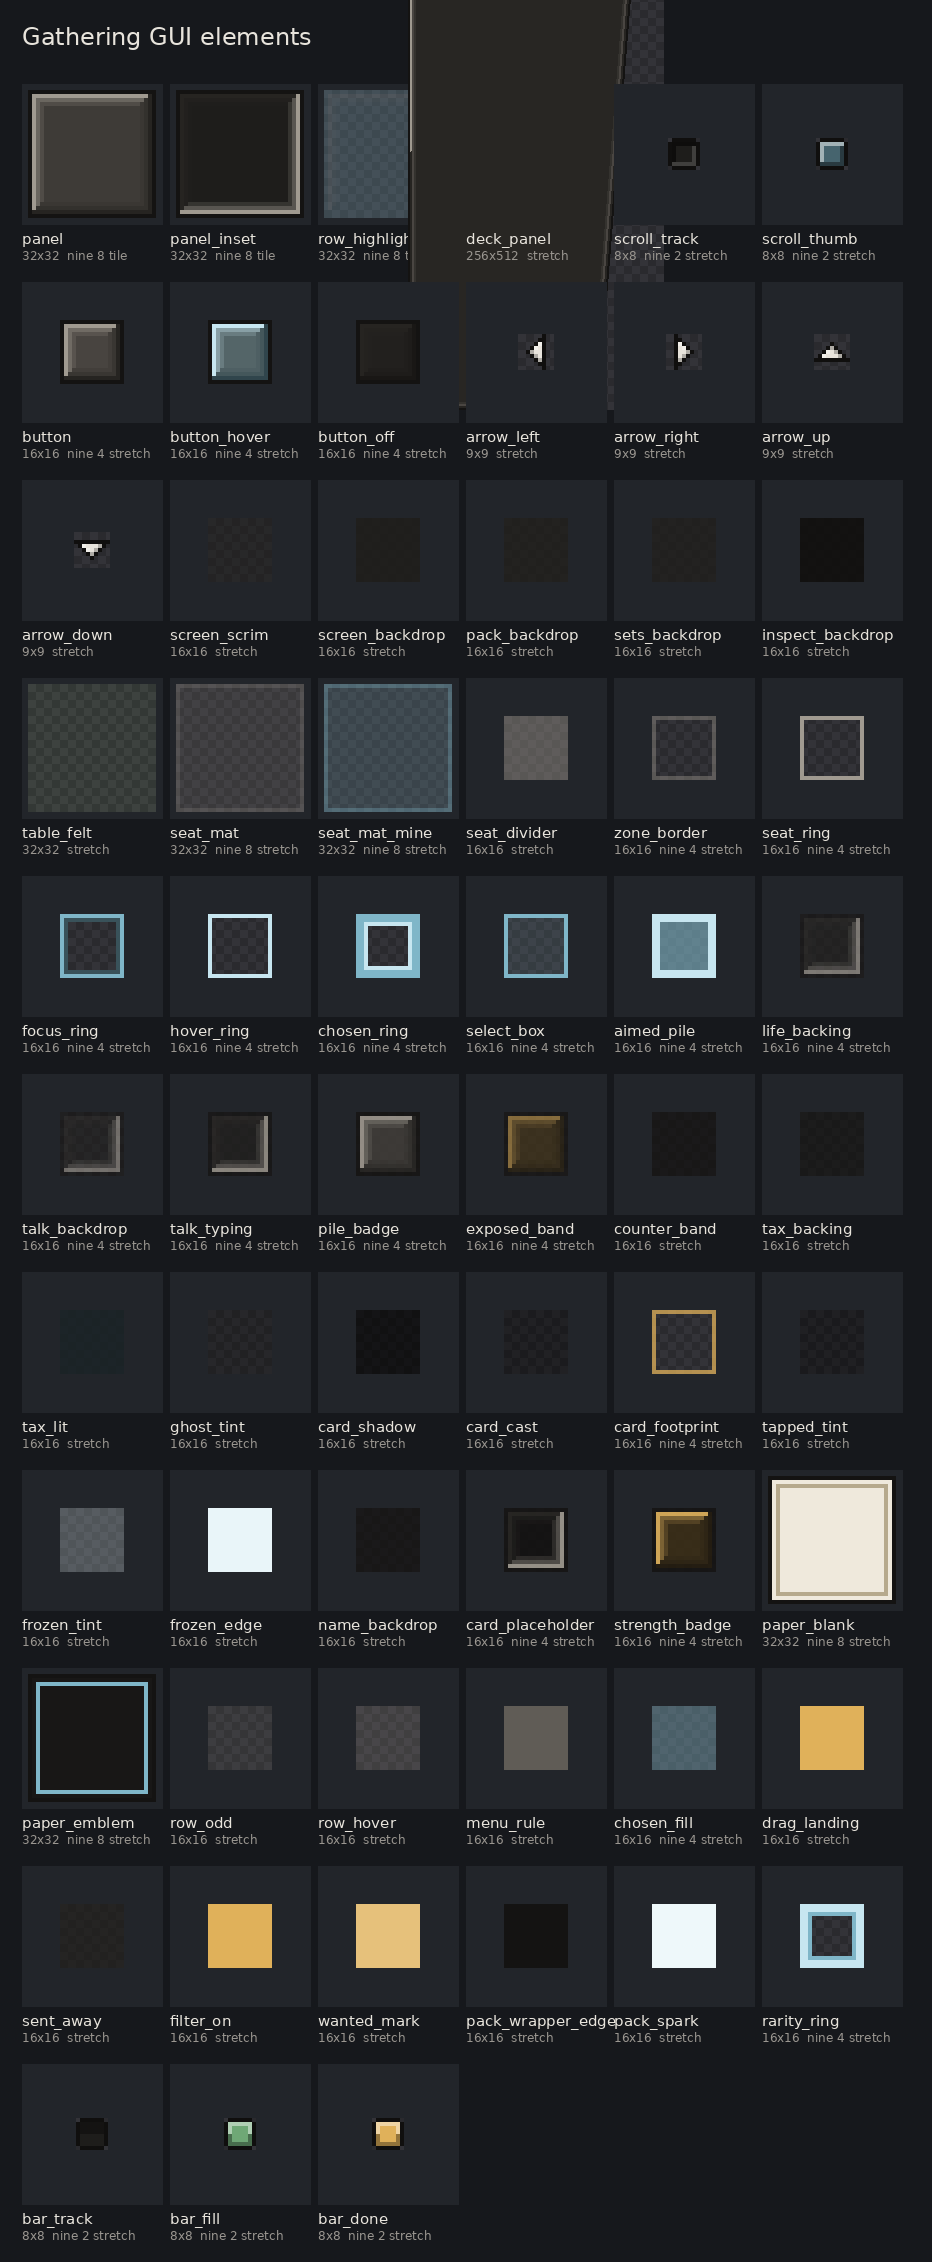
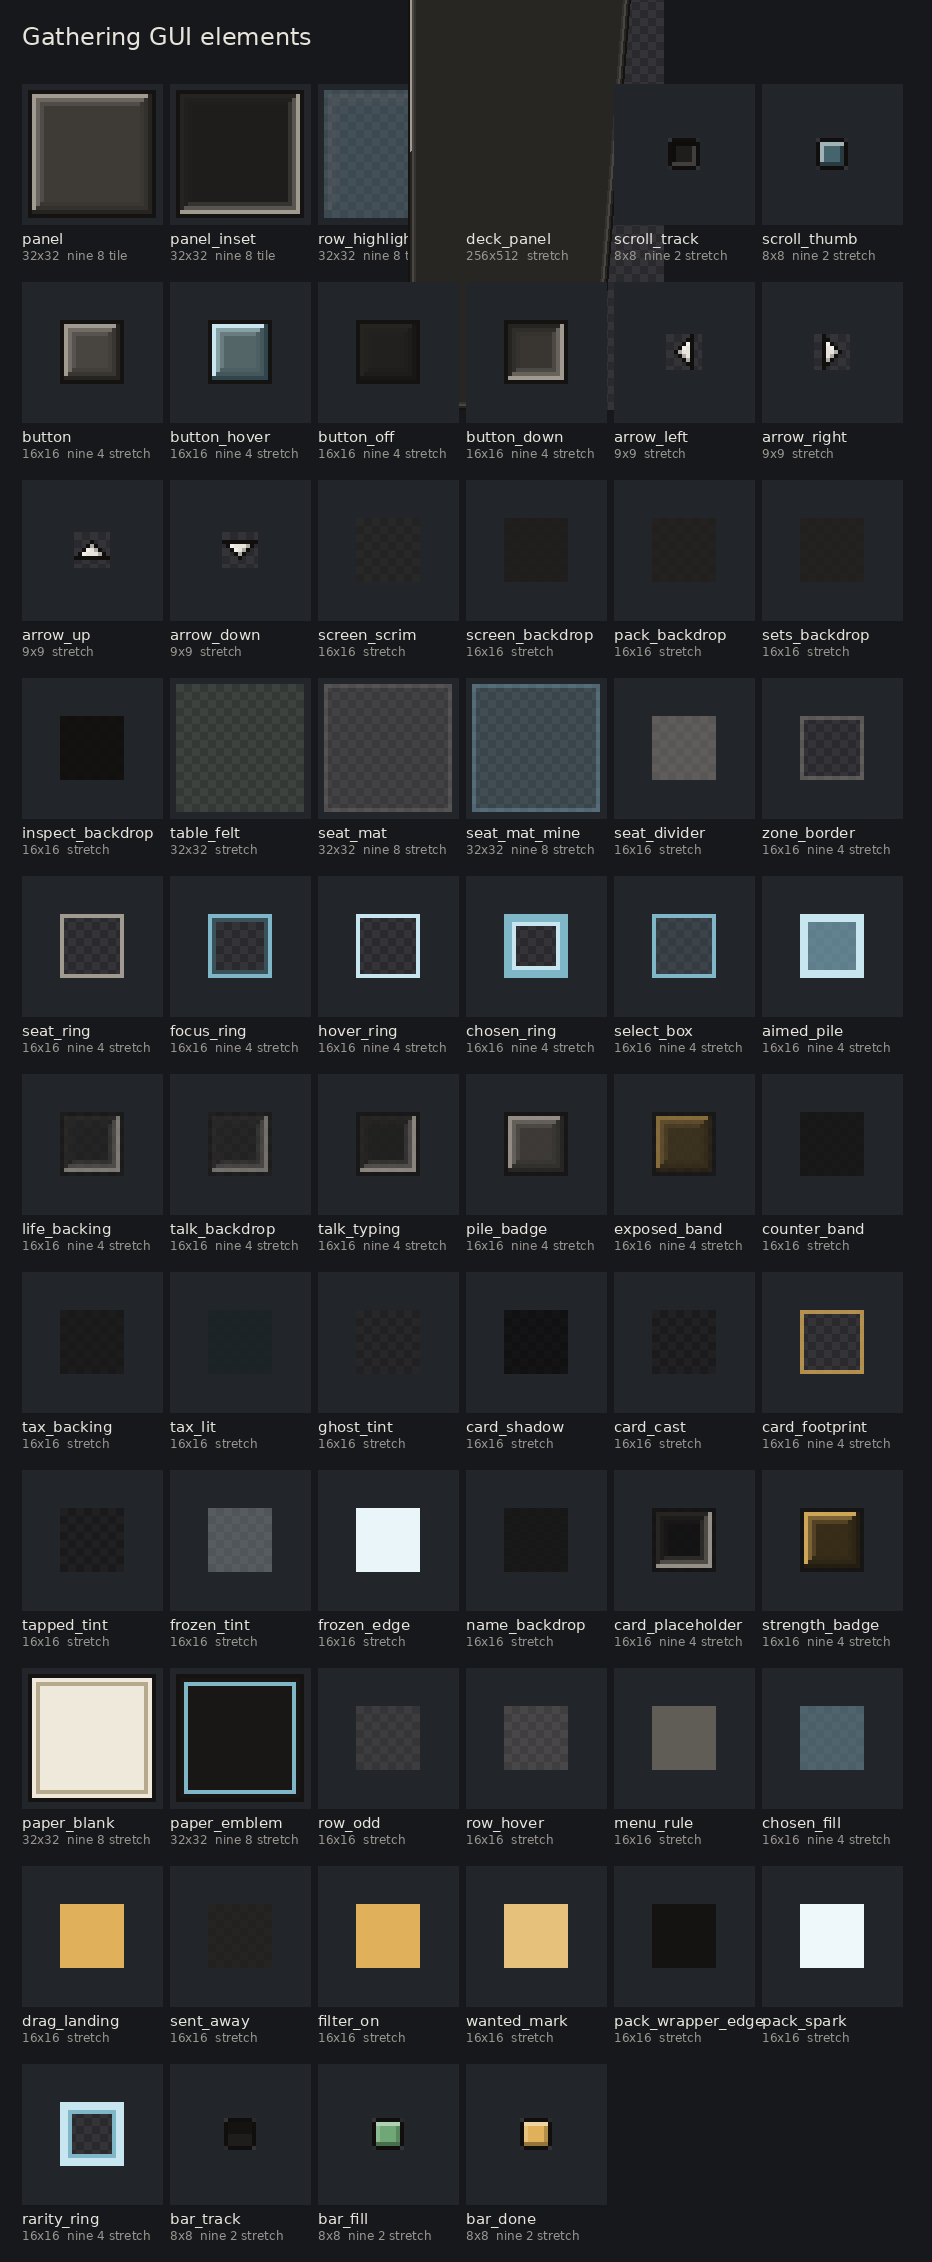
A button that dips when you press it, and a bar you can see
The buttons were not badly built - each look already draws its own edges, and
replacing that with one capped shape from the packs would have flattened
Future Sight's sweep, Retro's inset border and Bubble's rounding into a single
silhouette. What they were missing is the state the packs do ship and vanilla
has no notion of: held down. So there is a button_down face now, sunken and
lit from below, and the label goes down the one pixel with it. Tracked through
mouseClicked and mouseReleased rather than onClick, which NeoForge deprecated
in favour of a form it patched in and common may not name. Dragging off a
button you are holding lets the face come back up, because that is how
everybody cancels a press they did not mean.

And the progress bar was drawn three pixels tall, which is shorter than the
nine-slice's own borders - so the cap, the outline and the lit top all met in
the middle and none of them were drawn. Six pixels now, in a row twenty tall
whose words take ten, and the fill's whole top cap is lit rather than one
pixel of it: a bar is drawn along here for how much of a set is owned and
upward for a mana curve, and the top is the only highlight that reads in both.

Gate: build, game tests, all seven checkers, shots at failures: 0.

diff --git a/common/src/main/java/dev/gathering/client/GatheringButtons.java b/common/src/main/java/dev/gathering/client/GatheringButtons.java
@@ -60,8 +60,31 @@ public final class GatheringButtons {
      */
     private static class Fitting extends Button {
 
+        /** Whether the mouse is currently held down on this button. */
+        private boolean held;
+
         private Fitting(int x, int y, int width, int height, Component label, OnPress onPress) {
             super(x, y, width, height, label, onPress, DEFAULT_NARRATION);
+        }
+
+        /**
+         * Remembers that the button is being held, so the face can dip.
+         *
+         * <p>Through {@code mouseClicked} and {@code mouseReleased} rather than through
+         * {@code onClick}, which NeoForge has deprecated in favour of a three-argument form
+         * it patched in. These two are vanilla, are not deprecated, and are the same on both
+         * loaders - and {@code common} may not name a Forge addition at all.
+         */
+        @Override
+        public boolean mouseClicked(double mouseX, double mouseY, int button) {
+            held = super.mouseClicked(mouseX, mouseY, button);
+            return held;
+        }
+
+        @Override
+        public boolean mouseReleased(double mouseX, double mouseY, int button) {
+            held = false;
+            return super.mouseReleased(mouseX, mouseY, button);
         }
 
         /**
@@ -73,15 +96,25 @@ public final class GatheringButtons {
          */
         @Override
         protected void renderWidget(GuiGraphics graphics, int mouseX, int mouseY, float partialTick) {
+            // Held only counts while the cursor is still on it: dragging off a button you
+            // are holding is how everybody cancels a press they did not mean, and a face that
+            // stayed dipped would say the press is still going to happen.
+            boolean down = held && isHovered();
             Element face = !active
                     ? Element.BUTTON_OFF
+                    : down ? Element.BUTTON_DOWN
                     : isHoveredOrFocused() ? Element.BUTTON_HOVER : Element.BUTTON;
             RenderSystem.enableBlend();
             graphics.setColor(1.0F, 1.0F, 1.0F, alpha);
             GatheringSprites.draw(graphics, face, getX(), getY(), getWidth(), getHeight());
             graphics.setColor(1.0F, 1.0F, 1.0F, 1.0F);
+            // And the label goes down with it. A face that dips under words that do not is a
+            // button with a sticker on it; the one pixel is most of why a press feels like one.
+            graphics.pose().pushPose();
+            graphics.pose().translate(0.0F, down ? 1.0F : 0.0F, 0.0F);
             renderString(graphics, Minecraft.getInstance().font,
                     (active ? LABEL : LABEL_OFF) | Mth.ceil(alpha * 255.0F) << 24);
+            graphics.pose().popPose();
         }
 
         @Override

diff --git a/tools/gui_art.py b/tools/gui_art.py
@@ -689,8 +689,16 @@ def bar(size, look, kind):
                 # A track is a hole: dark at the top where the wall shades it, and never
                 # bright, or a bar that has not started looks like one that has.
                 tone = darker(face, 0.35) if y < size / 2 else face
+            elif y < band:
+                # The whole top cap lit rather than one pixel of it. A bar is drawn both ways
+                # round here - along, for how much of a set is owned, and upward, for a mana
+                # curve - and the top is the lit edge in the first and the leading edge in the
+                # second, so it is the one highlight that reads in both.
+                tone = lighter(face, 0.45)
+            elif y >= size - band:
+                tone = darker(face, 0.35)
             elif depth == 1:
-                tone = lighter(face, 0.45) if y < size / 2 else darker(face, 0.35)
+                tone = lighter(face, 0.2) if x < size / 2 else darker(face, 0.2)
             else:
                 tone = face
             pixels[x, y] = rgba(tone)
@@ -997,6 +1005,8 @@ ELEMENTS = [
     ("button_off", NINE_16,
      lambda k: plate(16, k, body=darker(k.body, 0.45), lit=k.shade,
                      low=darker(k.shade, 0.35))),
+    ("button_down", NINE_16,
+     lambda k: plate(16, k, sunken=True, body=mix(k.body, k.shade, 0.22))),
 
     # Directions. Blitted at their own size in the middle of a button, never stretched.
     ("arrow_left", STRETCH, lambda k: arrow(ARROW_SIZE, k, "left")),

diff --git a/common/src/main/java/dev/gathering/client/SetProgressScreen.java b/common/src/main/java/dev/gathering/client/SetProgressScreen.java
@@ -217,8 +217,12 @@ public final class SetProgressScreen extends ChildScreen {
         GuiText.drawFlushRight(graphics, this.font, count, row.right(), row.y() + 1, 1f,
                 set.isComplete() ? DONE_TEXT : DIM);
 
+        // Six pixels rather than three. The bar art has a capped end, a lit top and an
+        // outline, and at three pixels the nine-slice's own borders meet in the middle and
+        // none of it is drawn - so it came out as a flat line whatever look was on. The row
+        // is twenty tall and the words take ten, so this costs nothing.
         int barTop = row.y() + this.font.lineHeight + 3;
-        int barHigh = 3;
+        int barHigh = 6;
         GatheringSprites.draw(graphics, Element.BAR_TRACK,
                 row.x(), barTop, row.width(), barHigh);
         int full = Math.round(row.width() * set.share());

diff --git a/common/src/main/java/dev/gathering/client/GatheringSprites.java b/common/src/main/java/dev/gathering/client/GatheringSprites.java
@@ -56,6 +56,8 @@ public final class GatheringSprites {
         BUTTON_HOVER("button_hover"),
         /** And one that will not do anything, which has to look like it will not. */
         BUTTON_OFF("button_off"),
+        /** And one with the mouse held down on it, which dips the way a real key does. */
+        BUTTON_DOWN("button_down"),
 
         /**
          * The four directions, as shapes.
